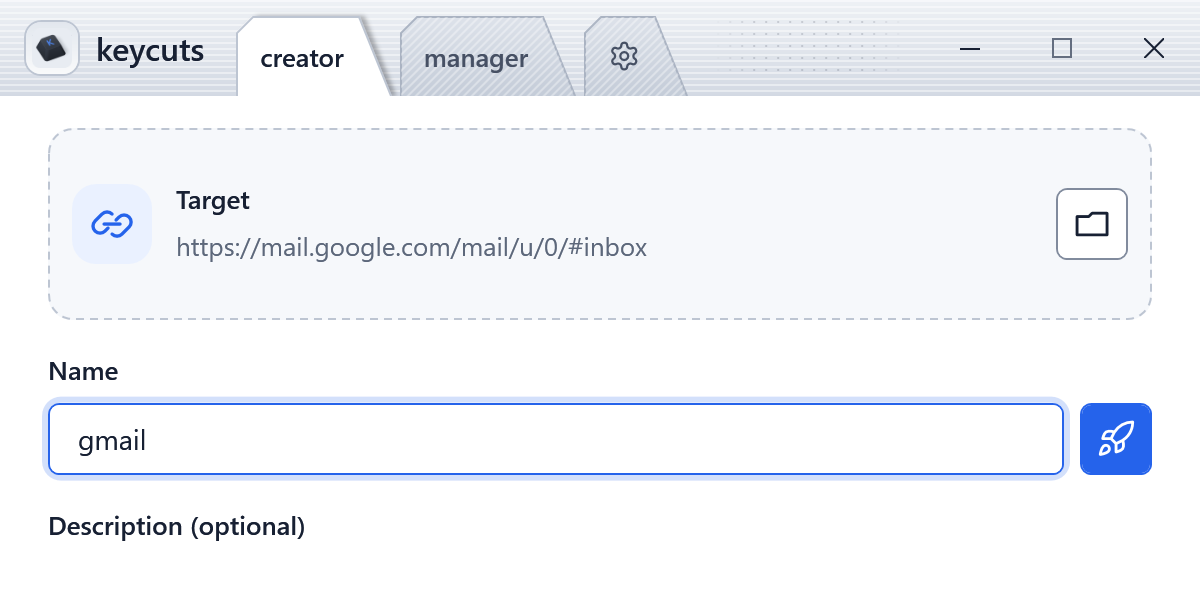
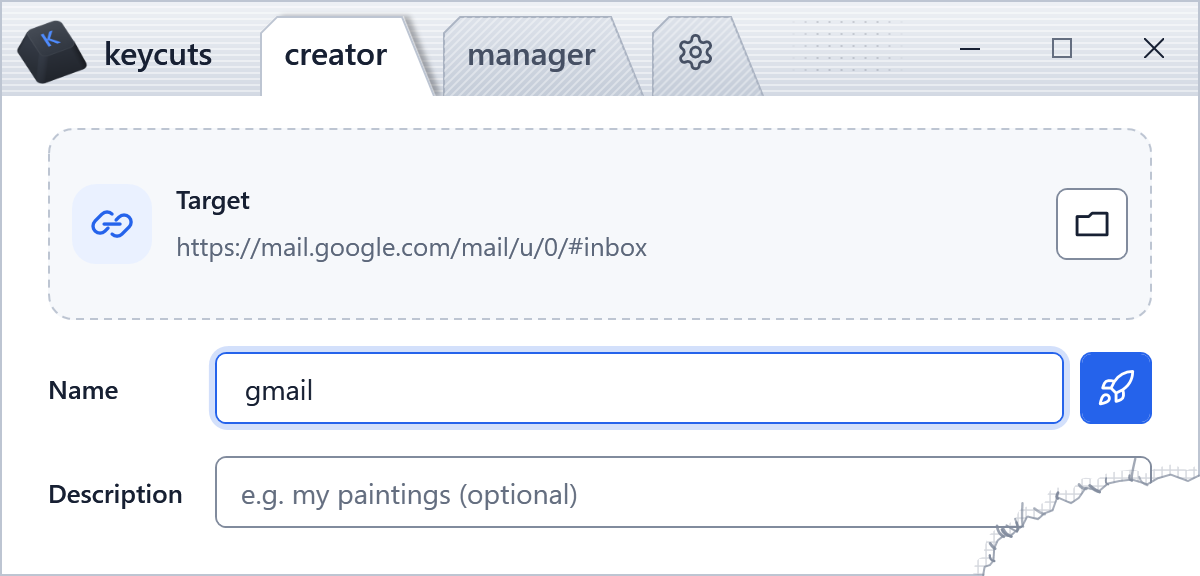
Regenerate the README screenshots: the torn corner, the bigger tabs, the new Creator form
The screenshot host now draws what MainWindow does (the 1px edge and the torn corner, transparent behind) and the
tab bar's icon for the palette (the white key in dark). The walkthrough keeps a line of room for "Created",
since its frames must share one size.

diff --git a/keycuts.Tests/ScreenshotTests.cs b/keycuts.Tests/ScreenshotTests.cs
@@ -136,6 +136,10 @@ namespace keycuts.Tests
         {
             var rail = new RailView { DataContext = new { AreTabsEnabled = true } };
             rail.Tabs.SelectedItem = tab(rail);
+            // The default icon (Black & White) without its background, as the app shows it in this palette: the tests never start
+            // AppIconManager, which would otherwise read the real theme
+            rail.Loaded += (sender, e) => ((Image)rail.FindName("AppIcon")).Source = keycuts.GUI.Themes.AppIcons.GetPreview(
+                keycuts.GUI.Themes.AppIcons.GetTransparent(keycuts.GUI.Themes.AppIcons.Resolve(Settings.DefaultAppIcon, isLightPalette)));
             view.DataContext = viewModel;
 
             // The frame has the size, not the window: a test window keeps its Windows frame, which would take 16 of the width
@@ -151,9 +155,23 @@ namespace keycuts.Tests
                 frame.Height = height.Value;
             }
 
+            // As MainWindow draws it: the canvas under the screen, its 1px edge, and the torn bottom-right corner, transparent behind
+            // (the PNG keeps the alpha). The root has a background of its own, so Capture doesn't paint the surface under the tear.
+            frame.Background = (Brush)Application.Current.FindResource("CanvasBrush");
+            var edge = new Border { BorderThickness = new Thickness(1), IsHitTestVisible = false };
+            edge.SetResourceReference(Border.BorderBrushProperty, "BorderStrongBrush");
+            Grid.SetRowSpan(edge, 2);
+            frame.Children.Add(edge);
+            var tear = new keycuts.GUI.Controls.TornCorner();
+            tear.SetResourceReference(keycuts.GUI.Controls.TornCorner.StrokeProperty, "ControlBorderBrush");
+            var root = new Grid { Background = Brushes.Transparent };
+            root.Children.Add(frame);
+            root.Children.Add(tear);
+            frame.SizeChanged += (sender, e) => frame.Clip = keycuts.GUI.Controls.TornCornerShape.Default.GetWindowClip(e.NewSize);
+
             var window = new Window
             {
-                Content = frame,
+                Content = root,
                 SizeToContent = SizeToContent.WidthAndHeight,
                 ResizeMode = width.HasValue ? ResizeMode.CanResize : ResizeMode.CanMinimize
             };
@@ -182,6 +200,14 @@ namespace keycuts.Tests
             {
                 var view = (FrameworkElement)window.Content;
                 var nameBox = (TextBox)view.FindName("TextboxShortcut");
+
+                // "Saving…" and "Created" take a line under the name box. A GIF's frames share one size, so every frame keeps
+                // that room: measured here with the line showing
+                creator.IsSaving = true;
+                Pump();
+                window.UpdateLayout();
+                view.MinHeight = view.ActualHeight;
+                creator.IsSaving = false;
 
                 void Add(string caption, int delayCentiseconds)
                 {
@@ -517,8 +543,12 @@ namespace keycuts.Tests
             return bitmap;
         }
 
+        /// <summary>Whether the palette now set is the light one, for the icon the tab bar shows.</summary>
+        private static bool isLightPalette = true;
+
         private static void SetPalette(string name)
         {
+            isLightPalette = name == "Light";
             Application.Current.Resources.MergedDictionaries[0].Source =
                 new Uri("pack://application:,,,/keycuts.GUI;component/Themes/" + name + ".xaml");
         }
